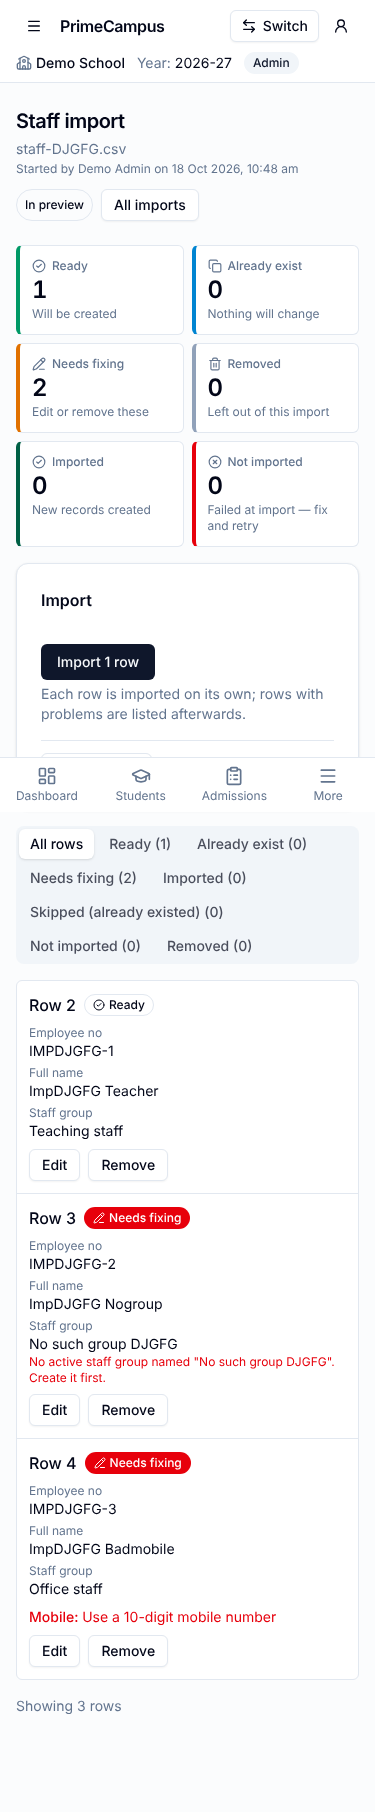
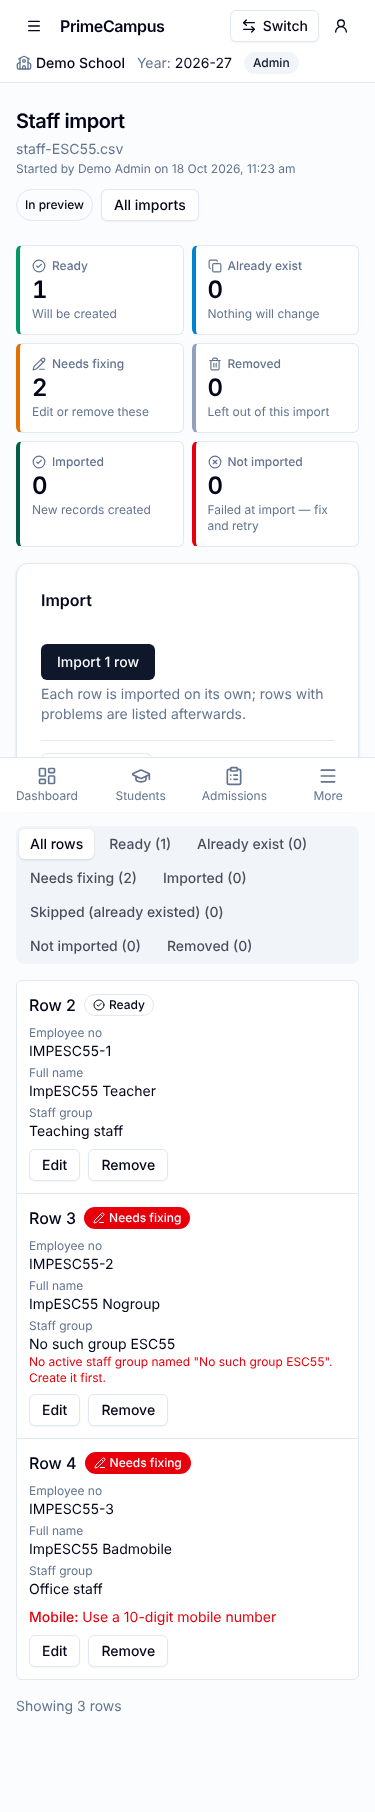
M1b report: review fixes section; refreshed 375px screenshots
Claude-Session: https://claude.ai/code/session_01TkuRWyXtp9JQpw3cfigooc

diff --git a/docs/reports/M1b.md b/docs/reports/M1b.md
@@ -26,11 +26,11 @@ No backend files were changed. The owner fixed the four problems found during pl
 
 | # | Item | Status | How it was verified |
 |---|---|---|---|
-| 1 | `typecheck`, `lint`, `test`, `build`, `check:bundle` pass | ✅ | All five run on the final commit. `test`: 16 files / **239 passed** (190 from M1 + 49 new). |
+| 1 | `typecheck`, `lint`, `test`, `build`, `check:bundle` pass | ✅ | All five run on the final commit. `test`: 16 files / **250 passed** (190 from M1 + 60 for M1b, after the review fixes). |
 | 1b | No `.from(` | ✅ | `grep -rn "\.from(" src tests` (ignoring `Array.from` / `Buffer.from`) finds nothing. E2E test 8 checks every Data API call is `/rest/v1/rpc/<fn>`. |
 | 1c | No browser storage | ✅ | `grep -rn "localStorage\|sessionStorage\|indexedDB" src` finds nothing. E2E test 3 checks, after a students import, that neither `localStorage` nor `sessionStorage` holds a student name or parent mobile, and that IndexedDB has no databases. Parsed rows live only in the wizard's component state (never in the query cache). E2E test 8 checks `record_telemetry` bodies carry no cell values. |
 | 1d | Initial bundle before / after | ✅ | Measured with the new `check:bundle` (gzip of the JS that `dist/index.html` loads + its static imports). **Before (main): 223.9 KB** (7 files). **After: 226.9 KB** (8 files). Budget 300 KB. exceljs (≈256 KB gzip) and papaparse (≈7 KB gzip) are only in lazy chunks; `check:bundle` fails if either appears in the initial set or has no separate chunk. |
-| 2a | Unit: XLSX + CSV parsing | ✅ | `tests/unit/m1b-parse.test.ts`: Excel date cells → `YYYY-MM-DD` under **Asia/Kolkata, UTC and America/Los_Angeles** (and a check that the time-zone switch is real: local getters would give the wrong day in LA); a date-formatted serial (42472) is a date; long numbers (`9876543210`, 15 digits, `1e21`) keep every digit; formula results used; formula without a saved value refuses the file and names the cells (B2, B3); merged cells; rich text / hyperlinks; header on row 2 after a blank row; a fully blank row skipped with row numbers kept; second sheet ignored; corrupt workbook and empty workbook refused. CSV: BOM, header after blank lines, quoted commas and newlines (row numbers still match the spreadsheet), Windows-1252 fallback, unclosed quote refused with its row, header-only file refused. Limits: exactly 10,000 data rows accepted, 10,001 refused; > 5 MB, `.xls` and empty files refused before reading. |
+| 2a | Unit: XLSX + CSV parsing | ✅ | `tests/unit/m1b-parse.test.ts`: Excel date cells → `YYYY-MM-DD` under **Asia/Kolkata, UTC and America/Los_Angeles** (and a check that the time-zone switch is real: local getters would give the wrong day in LA); a date-formatted serial (42472) is a date; long numbers (`9876543210`, 15 digits, `1e21`) keep every digit; formula results used; a formula without a result is a blank cell (review fix 1, incl. a hand-built `=IF(1=1,"","x")` sheet); hidden sheets skipped (review fix 5); merged cells; rich text / hyperlinks; header on row 2 after a blank row; a fully blank row skipped with row numbers kept; second sheet ignored; corrupt workbook and empty workbook refused. CSV: BOM, header after blank lines, quoted commas and newlines (row numbers still match the spreadsheet), Windows-1252 fallback only without multi-byte UTF-8, a Telugu name kept intact next to a stray 0x96 byte with the row named (review fix 2), unclosed quote refused with its row, header-only file refused. Limits: exactly 10,000 data rows accepted, 10,001 refused; > 5 MB, `.xls` and empty files refused before reading. |
 | 2b | Unit: header auto-mapping | ✅ | `m1b-logic.test.ts` › "header auto-mapping": labels or keys, case/space/underscore-insensitive; a repeated header maps once. |
 | 2c | Unit: required-column check | ✅ | "required-column check": lists missing required columns by label; a key chosen twice is flagged. Component test: the start button stays disabled and the message shows. |
 | 2d | Unit: batching ≤ 500 rows | ✅ | "batching": 1,201 rows → 500/500/201 in order; batches also stay ≤ 900 KB of JSON; a single huge row still goes alone. |
@@ -41,7 +41,7 @@ No backend files were changed. The owner fixed the four problems found during pl
 | 3.2 | Playwright: staff (375px) | ✅ live | Test 2, at 375px. Headers in other cases (`EMPLOYEE NO`, `full name`) auto-map. Unknown group → `No active staff group named "No such group <run>". Create it first.`; bad mobile → "Mobile: Use a 10-digit mobile number". Fix the mobile in Edit (row becomes Ready); Remove the other (confirm says removing never deletes a school record) → Import 2 rows → Imported 2, Removed 1 → both staff in the directory, the removed one not. |
 | 3.3 | Playwright: students & parents XLSX | ✅ live | Test 3. XLSX built with real Excel date cells. Bad date (31/02/2019) flagged under Date of birth; an Excel date cell arrived as `2019-05-01`. The bad date is fixed in Edit. Import 4 rows → "3 imported … 1 not imported"; the clash row shows "Not imported" + "Roll number already used in this section…" → Edit roll no → Import 1 row → Imported 4, "All rows … done". "Open student" opens the profile with the parent. Admit page guardian search: **one** result for the shared parent, listing both sibling names. Storage check (row 1c). |
 | 3.4 | Playwright: re-upload the same file | ✅ live (see note) | Test 4. Same bytes → "This file was imported on … Importing again won't create duplicates." Rows 2–4: "Already exists — nothing will change". **Row 5 is "Needs fixing", not "Already exists":** the file still has the invalid date 31/02/2019, and the server validates a row before matching it (mismatch 2). "Confirm 3 existing rows" → "0 imported, 3 already existed (nothing changed)". Then Close import (confirm text checked) → read-only, "Closed — some rows not imported". The student search still shows exactly 4 students for the run. |
-| 3.5 | Playwright: placements into a second year | ✅ live | Test 5. Creates 2027-28 (1 Apr 2027 – 31 Mar 2028, not current) in Setup if missing; imports its Class 1 A section (classes & sections into 2027-28); placements CSV → 2 Ready, 1 "No student with this admission number. Import students first." → Import 2 rows. Profile class history: "2027-28: Class 1 A · Roll …, 1 Apr 2027 – now" and the 2026-27 row now ends "1 Apr 2026 – 1 Apr 2027" (exclusive end = day after 31 Mar 2027; see mismatch 3). |
+| 3.5 | Playwright: placements into a second year | ✅ live | Test 5. Creates 2027-28 (1 Apr 2027 – 31 Mar 2028, not current) in Setup if missing; imports its Class 1 A section (classes & sections into 2027-28); placements CSV → 2 Ready, 1 "No student with this admission number. Import students first." → Import 2 rows. Profile class history: "2027-28: Class 1 A · Roll …, 1 Apr 2027 – now" and the 2026-27 row now ends "1 Apr 2026 – 31 Mar 2027" (stored `effective_to` 2027-04-01 is exclusive; the profile shows the last day — review fix 11). |
 | 3.6 | Playwright: Teacher has no Imports | ✅ live | Test 6. `demo.teacher`: no "Imports" link; `/imports` and `/imports/new` show "You don't have access to this page". Server: `list_import_jobs` and `get_import_template` as the Teacher return `FORBIDDEN`. |
 | 4 | 375px screenshots | ✅ | `docs/reports/m1b-screens/`: `375-imports-history.png`, `375-mapping-step.png`, `375-preview-with-errors.png`, `375-results.png`. Each test asserts no horizontal scroll at 375px. As in M1, the fixed bottom bar appears mid-image in full-page captures (Playwright stitching). |
 | 5 | Report: RPCs, mismatches, not verified | ✅ | Below. |
@@ -55,6 +55,55 @@ directory shows a list instead of the table, and the edit dialog had two buttons
 now "Cancel"). The M1b-only suite then passed 8/8. The M0/M1 screenshots the suite rewrites were restored to
 their committed versions. Afterwards the M1b suite ran once more, 8/8, after a test-only change: the screenshot
 helper hides toasts and scrolls to the top so no toast covers the results screen. `m1b-screens/` comes from that run.
+
+## Review fixes
+
+Done after the owner's review (18 Oct). All five commands pass (16 files / **250 tests**). The full live suite was run
+once afterwards: **26/26** (M0 6 + M1 12 + M1b 8, 6.0 min). `m1b-screens/` were refreshed by that run; the M0/M1
+screenshots were restored to their committed versions.
+
+1. **Formulas whose result is an empty string.** ExcelJS 4.4 returns `{formula}` with no result both for
+   `=IF(…,"",…)` / `=IFERROR(…,"")` (Excel writes `t="str"` + empty `<v>`) and for a formula never calculated (no
+   `<v>`). Checked by loading both shapes: identical. They can't be told apart, so neither refuses the file any
+   more; both import as a blank cell (the server flags a blank required value on that row). Test:
+   `m1b-parse.test.ts` › "hand-built sheet: =IF(1=1,"","x")…" (XML patched with `jszip` to exactly what Excel writes).
+2. **CSV encoding.** Valid UTF-8 → as is. Invalid UTF-8 that still contains valid multi-byte sequences → UTF-8
+   non-fatally (U+FFFD only at the bad bytes) plus a warning before upload naming the rows with "�". Windows-1252 only
+   when there is no valid multi-byte UTF-8 at all. Tests: "a Telugu name plus one stray 0x96 byte…" (name intact,
+   row 3 named), "falls back to Windows-1252 only when…", and the wizard test "a CSV with one unreadable byte shows
+   which rows to check".
+3. **Import run state.** The run (state, latest commit response) now lives in `ImportJobPage` above the data states;
+   after the first load the page is never replaced by an error panel — a failed refresh shows "This import couldn't
+   be refreshed… may be out of date" + Try again, and the "Some rows may already be imported — Continue" warning
+   stays. `useImportJob` uses `keepPreviousData` (switching filters keeps the page; the old rows are dimmed and
+   disabled until the new ones load). During a run the filter tabs, Edit, Remove/Restore, Load more and Close
+   import are disabled. Tiles and the run result use the newer of the page's job and the latest commit response
+   (`outcome.job.counts`). Tests: "outage: commit AND the background refresh fail…" (`get_import_job` fails from the
+   first failed commit to the end; the warning survives, and after Continue the numbers come from the commit
+   response while the page copy is stale) and "while a run is in progress: … disabled".
+4. **Wording.** Only existing rows left and nothing to fix: "These rows already exist. Confirming re-checks them;
+   anything missing now will be created." (with rows to fix, the same plus "Rows that need fixing are left out").
+   The stall message is now "No rows were processed. Reload the import and try again." with a Reload button.
+   Tests: "only existing rows left…", "a chunk that processes nothing…".
+5. **Hidden sheets** are skipped: the first visible sheet is read; a workbook with none is refused. Test: "skips
+   hidden sheets…" (hidden + very hidden before the data sheet).
+6. **Parent mobile alias.** In Students & parents, a header that is exactly "Mobile", "Phone" or "Contact" maps to
+   Parent 1 mobile (`guardian1_phone`); "Student mobile" still maps to the student's. Staff is unchanged. Test:
+   "students & parents: a bare "Mobile" / "Phone" / "Contact" header…".
+7. **Rows with data only in unmapped columns** are not staged; step 5 says "N rows had no data in the mapped columns
+   and were skipped (rows …)" before upload, and the counts/progress use the staged rows. Tests:
+   "rows with values only in unmapped columns are not staged…" (logic) and the wizard test that checks
+   `stage_import_rows` receives only row 2.
+8. **Staff-groups queries** (`staff-groups`, `staff-groups-finance`) are invalidated after any commit.
+9. **`pending` row status** is accepted by the contract (the table allows it; no RPC sets it today) and shown as
+   "Being imported" (not editable). Test: "pending rows … parse and show as "Being imported"".
+10. **Capability on the job page.** "Import N rows" is disabled when the role lacks the dataset's capability
+    (`setup.manage` / `staff.manage` / `students.manage`, same rule as the wizard), with "Your role can't import
+    <dataset>…". Test: "a role without the dataset capability (staff.manage)…".
+11. **Placement dates on the student profile** show `addDays(to, −1)` (the stored `effective_to` is exclusive).
+    E2E test 5 now expects "1 Apr 2026 – 31 Mar 2027" — verified live. Not unit-tested (no M1 profile fixture).
+12. **E2E Demo School guard.** Every sign-in in `m1b.spec.ts` (`asUser`, used by every test) asserts the header
+    (`context-summary`) shows "Demo School" before doing anything.
 
 ## RPCs used by M1b
 
@@ -85,10 +134,8 @@ Also used: `get_setup_snapshot` (years for the year select), `save_class`, `save
 2. **Re-importing a file with an invalid value doesn't show that row as "Already exists".** `imp_validate` reports
    field errors even when the record exists, so on re-upload such a row is "Needs fixing" (test 4, row 5). Brief
    test 4 says "every row Already exists"; that holds only for rows whose values are valid. Not changed.
-3. **Placement end date display (M1 screen, not changed).** `effective_to` is exclusive; the 2026-27 placement
-   closed by the placements import is stored with `effective_to = 2027-04-01` and the M1 profile shows
-   "1 Apr 2026 – 1 Apr 2027", although the last day in that class was 31 Mar 2027. Suggest the profile show
-   `to − 1 day` (outside M1b's scope).
+3. **Placement end date display (M1 screen) — fixed in review fix 11.** `effective_to` is exclusive; the profile
+   showed it as the last day ("1 Apr 2026 – 1 Apr 2027"). It now shows `to − 1 day` ("… – 31 Mar 2027").
 4. **Generated type:** `start_import.p_academic_year_id` is typed `string`, but staff imports send `null`
    (the SQL accepts it). One cast in `startImportJob`, approved by the owner.
 5. **Import button when only existing rows remain.** The brief says "Import <ready> rows (disabled when 0)", but
@@ -102,15 +149,15 @@ Also used: `get_setup_snapshot` (years for the year select), `save_class`, `save
 
 - **Parsing** runs in a module Web Worker (`parse.worker.ts`) that lazy-loads exceljs/papaparse; where a worker
   can't start, the same code runs on the main thread. Everything becomes text: Excel dates via UTC parts, numbers
-  without exponent/".0", rich text/hyperlinks as text, formula results (a formula without a saved value refuses
-  the file), merged cells only in their top-left cell, error values (`#N/A`) as text so the server flags the row.
+  without exponent/".0", rich text/hyperlinks as text, formula results (a formula without a result is blank — see
+  review fix 1), only the first visible sheet, merged cells only in their top-left cell, error values (`#N/A`) as text so the server flags the row.
 - **Templates:** XLSX "Data" sheet columns are text-formatted (so Excel won't turn `2024/001` into a date); required
   columns carry a "Required" note. The CSV template is the header row only; its help is shown on screen.
 - **Operation ids:** `start_import` uses `OperationTracker` (same id after NETWORK/UNKNOWN/TEMPORARILY_UNAVAILABLE,
   new id after success, a definite refusal, or a changed file/mapping). Staging and commit need no ids
   (re-staging replaces drafts; committing again never duplicates).
 - **Invalidation:** after any commit: the job, the history, `setup`, `students`, `student`, `staff-list`, `staff`,
-  `guardian`, `guardian-search`.
+  `staff-groups`, `staff-groups-finance`, `guardian`, `guardian-search`.
 - **Context switch:** the wizard is reset by M0's `RootLayout` (keyed by the session epoch); query keys carry the
   context revision.
 - Leaving the wizard mid-upload asks first (`useBlocker` + `beforeunload`).
@@ -119,8 +166,10 @@ Also used: `get_setup_snapshot` (years for the year select), `save_class`, `save
 ## Known gaps / not verified
 
 - **Not exercised live:** Continue after a staging or commit network failure (unit + component tests only);
-  Restore of a removed row; the "stalled" guard; "Load more" (no job had more than 100 rows); the main-thread
-  parsing fallback (jsdom only); a Windows-1252 CSV; the leave-mid-upload confirmation (not tested at all).
+  Restore of a removed row; the "no rows processed" guard; "Load more" (no job had more than 100 rows); the
+  main-thread parsing fallback (jsdom only); Windows-1252 and lossy UTF-8 CSVs; hidden sheets; empty-string formula
+  results; the parent-mobile alias; skipped empty rows; the disabled Import for a role without the dataset
+  capability; the leave-mid-upload confirmation (not tested at all). All except the last are unit/component tested.
 - **Large files:** a 10,000-row / 5 MB file was not run live (only the row-limit logic is unit-tested), so worker
   parse time and upload time at that size are not measured.
 - **Partly uploaded imports:** if someone leaves during staging, the import holds only the rows sent so far; the
@@ -151,6 +200,7 @@ one students import (`students-COQ75.xlsx`) still "In preview" with nothing comm
   (Imports nav item + icon).
 - **Build:** `vite.config.ts` (`worker.format: 'es'`; raw chunk warning 1000 KB for the lazy exceljs chunk),
   `scripts/check-bundle.mjs` (initial gzip budget + lazy-library checks), `package.json`, `package-lock.json`.
+- **M1 file (review fix 11):** `src/features/students/StudentProfilePage.tsx` (placement end date).
 - **Tests:** `tests/unit/m1b-{parse,logic}.test.ts`, `tests/unit/m1b-pages.test.tsx`, `tests/unit/m1b-fixtures.ts`,
   `tests/e2e/m1b.spec.ts`.
 - **Docs:** this report, `docs/reports/m1b-screens/*.png`.
@@ -160,5 +210,7 @@ one students import (`students-COQ75.xlsx`) still "In preview" with nothing comm
   route/worker only.
 - `papaparse@5.7.0`: CSV parsing (quoted fields, newlines in cells, delimiter detection). Lazy-loaded likewise.
 - `@types/papaparse` (dev): its types.
+- `jszip@3.10.2` (dev, review fix 1): the unit test hand-builds the XLSX XML Excel writes for `=IF(1=1,"","x")`.
+  Same version exceljs already installs (deduped, no new code in the app).
 
 **Backend:** no migrations or Edge Function changes.
